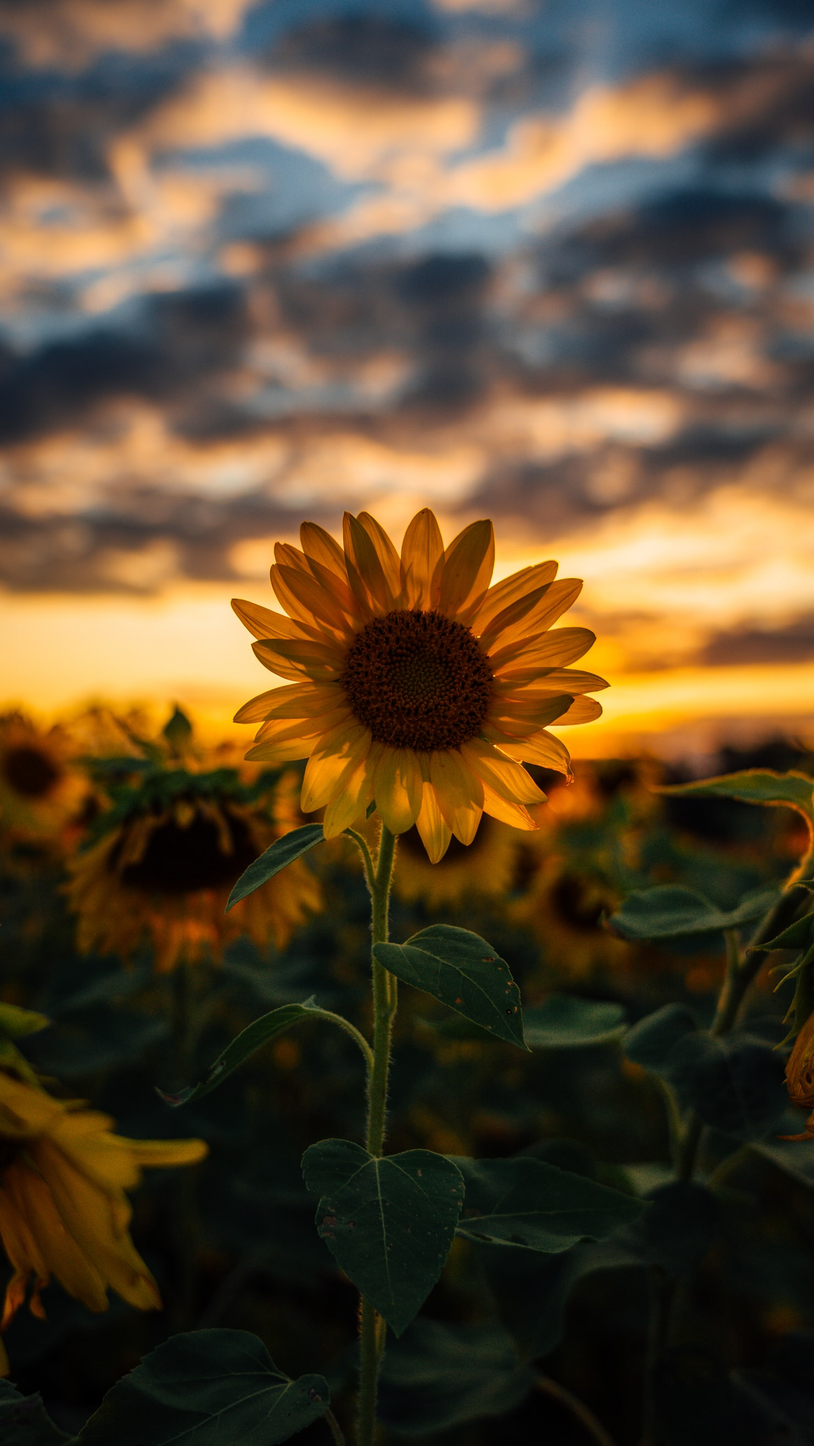
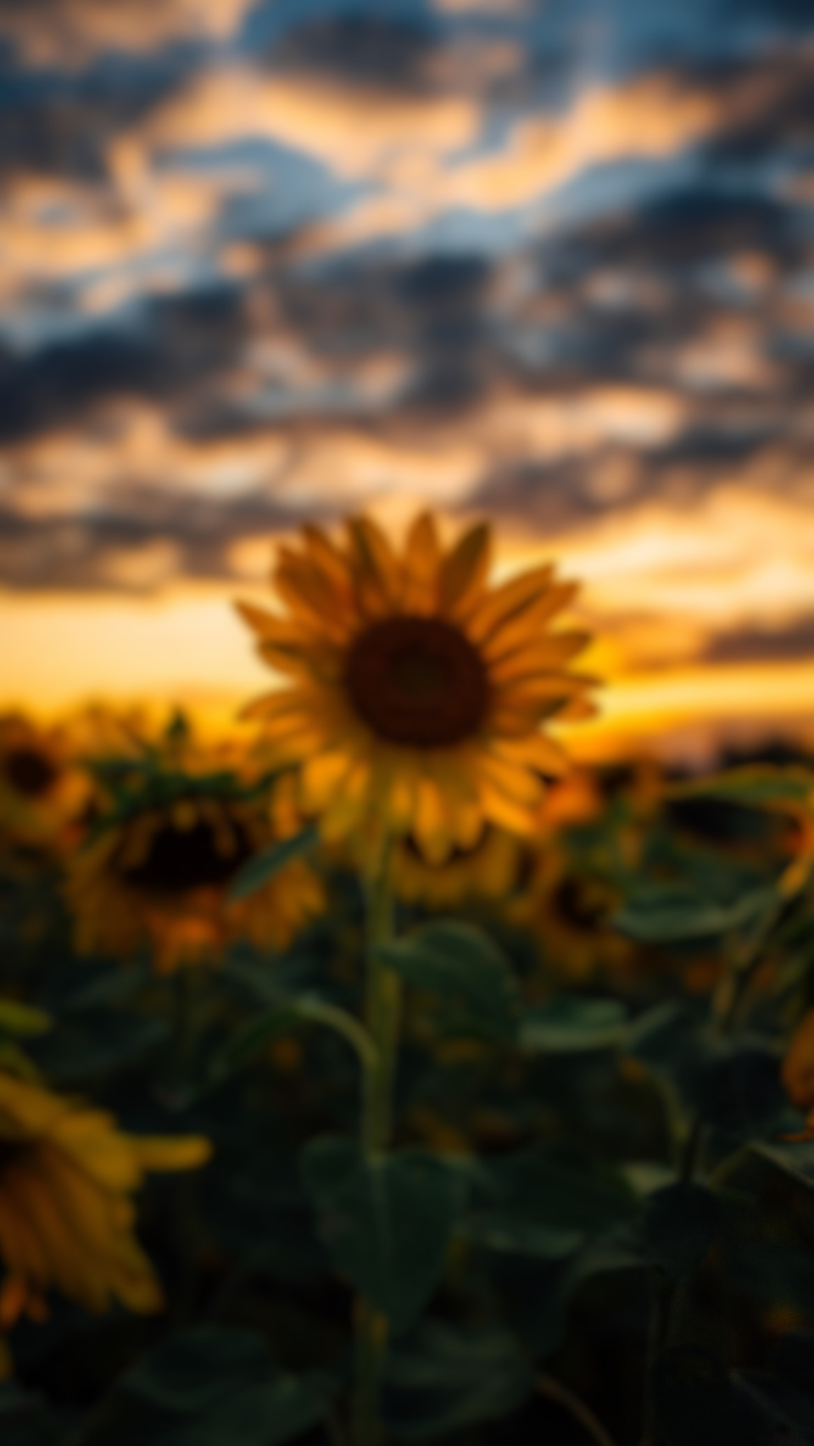
minor changes

diff --git a/lib/main.dart b/lib/main.dart
@@ -7,7 +7,6 @@ import 'package:flutter/material.dart';
 import 'package:flutter_inner_drawer/inner_drawer.dart';
 import 'custom_drawer.dart';
 
-
 void main() => runApp(MyApp());
 
 class MyApp extends StatelessWidget {
@@ -37,16 +36,10 @@ class MyPage extends StatefulWidget {
 }
 
 class _MyPageState extends State<MyPage> with SingleTickerProviderStateMixin {
-  final GlobalKey<FormState> _formKey = GlobalKey();
   final GlobalKey<InnerDrawerState> _innerDrawerKey =
       GlobalKey<InnerDrawerState>();
   String _stringName = '';
   bool _isCollapse = true;
-
-  @override
-  void initState() {
-    super.initState();
-  }
 
   void _showDialog(BuildContext context, String stringName) {
     showDialog(
@@ -65,6 +58,16 @@ class _MyPageState extends State<MyPage> with SingleTickerProviderStateMixin {
             ],
           );
         });
+  }
+
+  @override
+  void initState() {
+    super.initState();
+  }
+
+  @override
+  void dispose() {
+    super.dispose();
   }
 
   @override
@@ -88,14 +91,8 @@ class _MyPageState extends State<MyPage> with SingleTickerProviderStateMixin {
             height: _screenHeight,
             decoration: BoxDecoration(
               image: DecorationImage(
-                  fit: BoxFit.fill,
-                  image: AssetImage(
-                      'assets/sunflower.jpg')),
-            ),
-            child: BackdropFilter(
-              filter: prefix0.ImageFilter.blur(sigmaX: 10.0, sigmaY: 10.0),
-              child: Container(
-                decoration: BoxDecoration(color: Colors.white.withOpacity(0.0)),
+                fit: BoxFit.fill,
+                image: AssetImage('assets/sunflower.jpg'),
               ),
             ),
           ),
@@ -167,17 +164,16 @@ class _MyPageState extends State<MyPage> with SingleTickerProviderStateMixin {
                         child: Stack(
                           children: <Widget>[
                             Positioned(
-                              top: _screenHeight / 14,
-                              left: _screenWidth / 3,
-                              child: Text(
-                                'RM 422',
-                                style: TextStyle(
-                                  color: Colors.white, 
-                                  fontSize: 30,
-                                  fontWeight: FontWeight.w200,
-                                ),
-                              )
-                            )
+                                top: _screenHeight / 14,
+                                left: _screenWidth / 3,
+                                child: Text(
+                                  'RM 422',
+                                  style: TextStyle(
+                                    color: Colors.white,
+                                    fontSize: 30,
+                                    fontWeight: FontWeight.w200,
+                                  ),
+                                ))
                           ],
                         ),
                       ),

diff --git a/lib/custom_drawer.dart b/lib/custom_drawer.dart
@@ -1,10 +1,8 @@
 import 'package:flutter/material.dart';
-import 'main.dart';
 import 'routes/routes.dart';
-import 'package:flutter_inner_drawer/inner_drawer.dart';
 
 class CustomDrawer extends StatelessWidget {
-  String pageName = '';
+  final String pageName;
   CustomDrawer({@required this.pageName});
 
   @override
